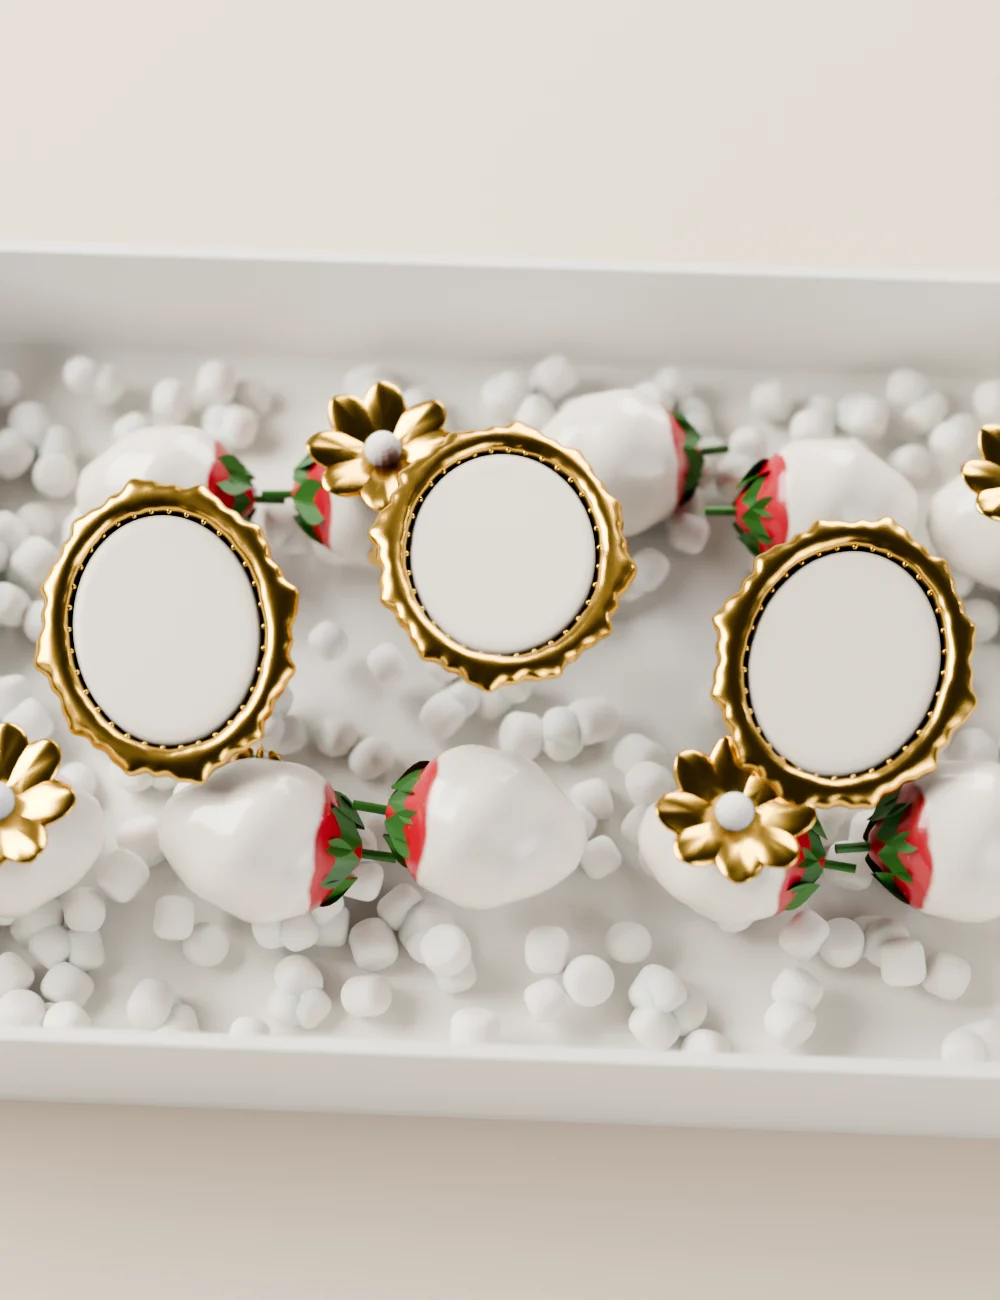
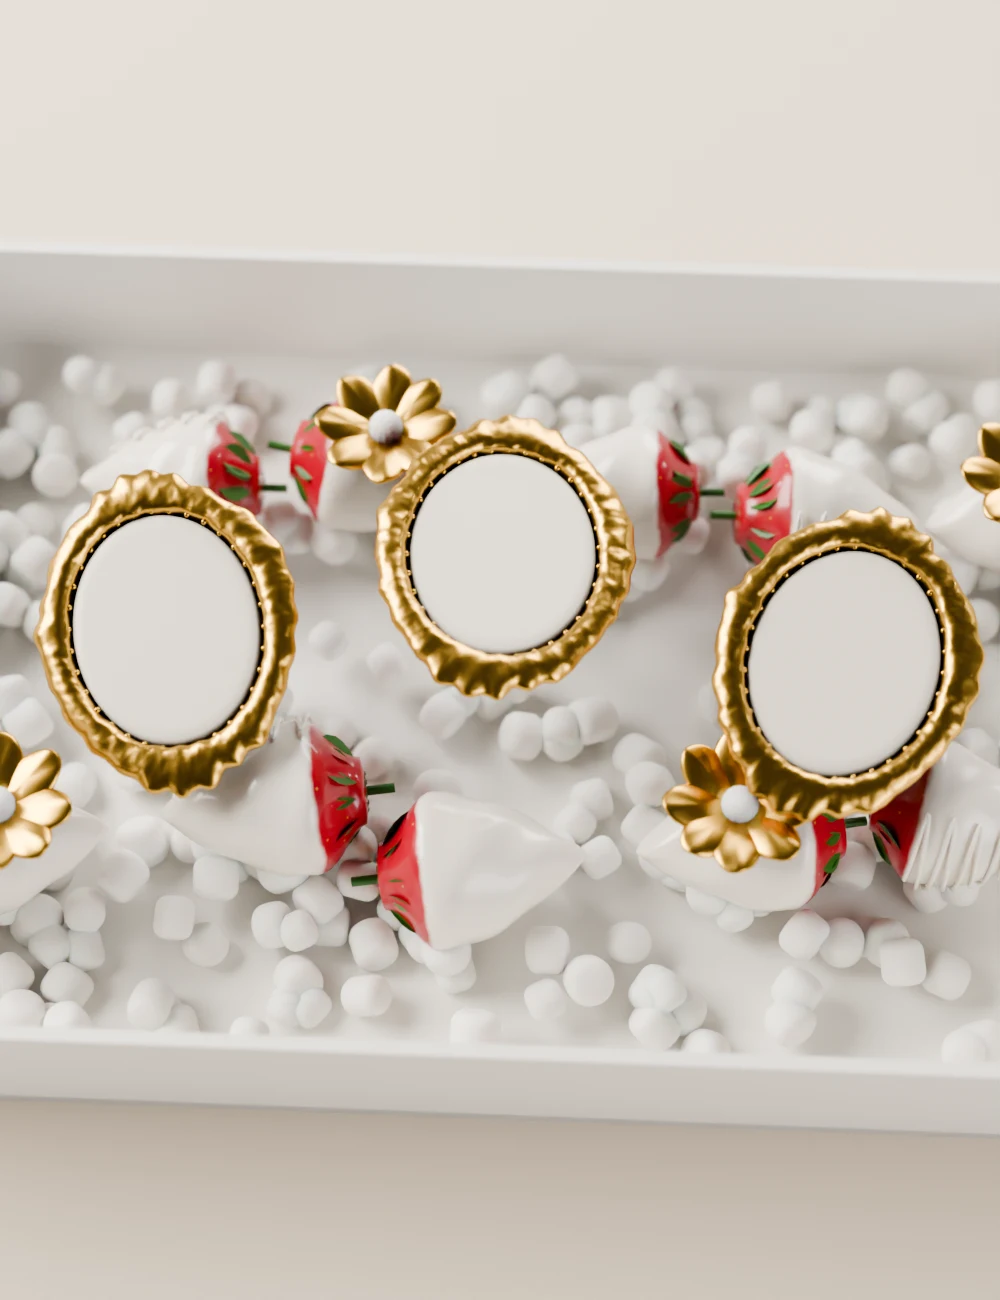
Treats to Love: final renders, Great Vibes names on plaques
Claude-Session: https://claude.ai/code/session_01LLUpzQsT57yuc9pnTAzjB7

diff --git a/treatstolove/index.html b/treatstolove/index.html
@@ -11,7 +11,7 @@
 <meta property="og:image" content="media/box-wide.webp">
 <meta name="theme-color" content="#F6F0E6">
 <link rel="icon" href="img/logo.webp">
-<link rel="preload" href="fonts/pinyon.woff2" as="font" type="font/woff2" crossorigin>
+<link rel="preload" href="fonts/greatvibes.woff2" as="font" type="font/woff2" crossorigin>
 <link rel="preload" href="fonts/playfair.woff2" as="font" type="font/woff2" crossorigin>
 <link rel="preload" href="fonts/jost.woff2" as="font" type="font/woff2" crossorigin>
 <script type="application/ld+json">
@@ -19,6 +19,7 @@
 </script>
 <style>
 @font-face{font-family:"Pinyon Script";src:url(fonts/pinyon.woff2) format("woff2");font-weight:400;font-display:swap}
+@font-face{font-family:"Great Vibes";src:url(fonts/greatvibes.woff2) format("woff2");font-weight:400;font-display:swap}
 @font-face{font-family:"Playfair Display";src:url(fonts/playfair.woff2) format("woff2");font-weight:400 700;font-display:swap}
 @font-face{font-family:"Playfair Display";src:url(fonts/playfair-italic.woff2) format("woff2");font-weight:400 600;font-style:italic;font-display:swap}
 @font-face{font-family:"Jost";src:url(fonts/jost.woff2) format("woff2");font-weight:400 600;font-display:swap}
@@ -26,7 +27,7 @@
   --ivory:#FBF7F0; --beige:#EFE5D6; --sand:#E3D4BF; --brown:#4A3426; --brown-2:#6B5240; --muted:#85705F;
   --gold:#B8913F; --gold-l:#E2C27A; --blush:#EBCFC8; --wine:#7A1F2B; --line:rgba(74,52,38,.14);
   --ease:cubic-bezier(.2,.8,.2,1);
-  --display:"Playfair Display",Georgia,serif; --script:"Pinyon Script","Snell Roundhand",cursive; --sans:"Jost",system-ui,-apple-system,"Segoe UI",sans-serif;
+  --display:"Playfair Display",Georgia,serif; --script:"Pinyon Script","Snell Roundhand",cursive; --names:"Great Vibes","Snell Roundhand",cursive; --sans:"Jost",system-ui,-apple-system,"Segoe UI",sans-serif;
   --wrap:1160px;
 }
 *,*::before,*::after{box-sizing:border-box}
@@ -64,10 +65,10 @@ header.site{position:absolute;top:0;left:0;right:0;z-index:20}
 .scene img.render{position:absolute;inset:0;width:100%;height:100%;object-fit:cover;animation:settle 2.4s var(--ease) both}
 @keyframes settle{from{transform:scale(1.06);filter:blur(4px)}to{transform:none;filter:none}}
 .plaques{position:absolute;inset:0;pointer-events:none;animation:settle 2.4s var(--ease) both}
-.plq{position:absolute;left:0;top:0;width:226px;height:200px;transform-origin:0 0;display:grid;place-items:center;text-align:center;font:400 66px/1 var(--script);color:#7a5528;mix-blend-mode:multiply;text-shadow:0 1px 0 rgba(255,255,255,.5)}
+.plq{position:absolute;left:0;top:0;width:226px;height:200px;transform-origin:0 0;display:grid;place-items:center;text-align:center;font:400 76px/1 var(--names);color:#7a5528;mix-blend-mode:multiply;text-shadow:0 1px 0 rgba(255,255,255,.5)}
 .plq span{display:block;clip-path:inset(0 100% 0 0);animation:write 1.4s var(--ease) forwards}
 .plq .amp{font-size:.7em;margin:4px 0}
-.plq.stack{font-size:52px;line-height:1}
+.plq.stack{font-size:60px;line-height:.95}
 .plaques.fresh .plq span{animation:none}
 @keyframes write{to{clip-path:inset(0 0 0 0)}}
 .card{position:absolute;left:50%;transform:translateX(-50%);bottom:clamp(18px,2.4vw,32px);width:min(1100px,calc(100% - 40px));display:grid;grid-template-columns:minmax(0,1.05fr) minmax(0,1fr);gap:8px 36px;align-items:center;padding:24px 30px;border-radius:24px;background:rgba(251,247,240,.9);backdrop-filter:blur(14px);-webkit-backdrop-filter:blur(14px);box-shadow:0 30px 60px -36px rgba(74,52,38,.6);animation:rise 1s .6s var(--ease) both}
@@ -77,7 +78,7 @@ header.site{position:absolute;top:0;left:0;right:0;z-index:20}
 .card .lead{margin-top:10px;color:var(--brown-2)}
 .names{display:grid;grid-template-columns:1fr auto 1fr;gap:8px;align-items:center;margin-top:4px;grid-column:1}
 .names label{position:relative}
-.names input{width:100%;height:48px;padding:0 14px;border-radius:14px;border:1px solid var(--line);background:#fff;font:400 1.75rem/1 var(--script);color:var(--brown);outline:none;transition:border-color .25s,box-shadow .25s}
+.names input{width:100%;height:48px;padding:0 14px;border-radius:14px;border:1px solid var(--line);background:#fff;font:400 1.75rem/1 var(--names);color:var(--brown);outline:none;transition:border-color .25s,box-shadow .25s}
 .names input:focus{border-color:var(--gold);box-shadow:0 0 0 4px rgba(184,145,63,.18)}
 .names .and{font:400 1.75rem/1 var(--script);color:var(--gold)}
 .sr{position:absolute;width:1px;height:1px;overflow:hidden;clip:rect(0 0 0 0)}
